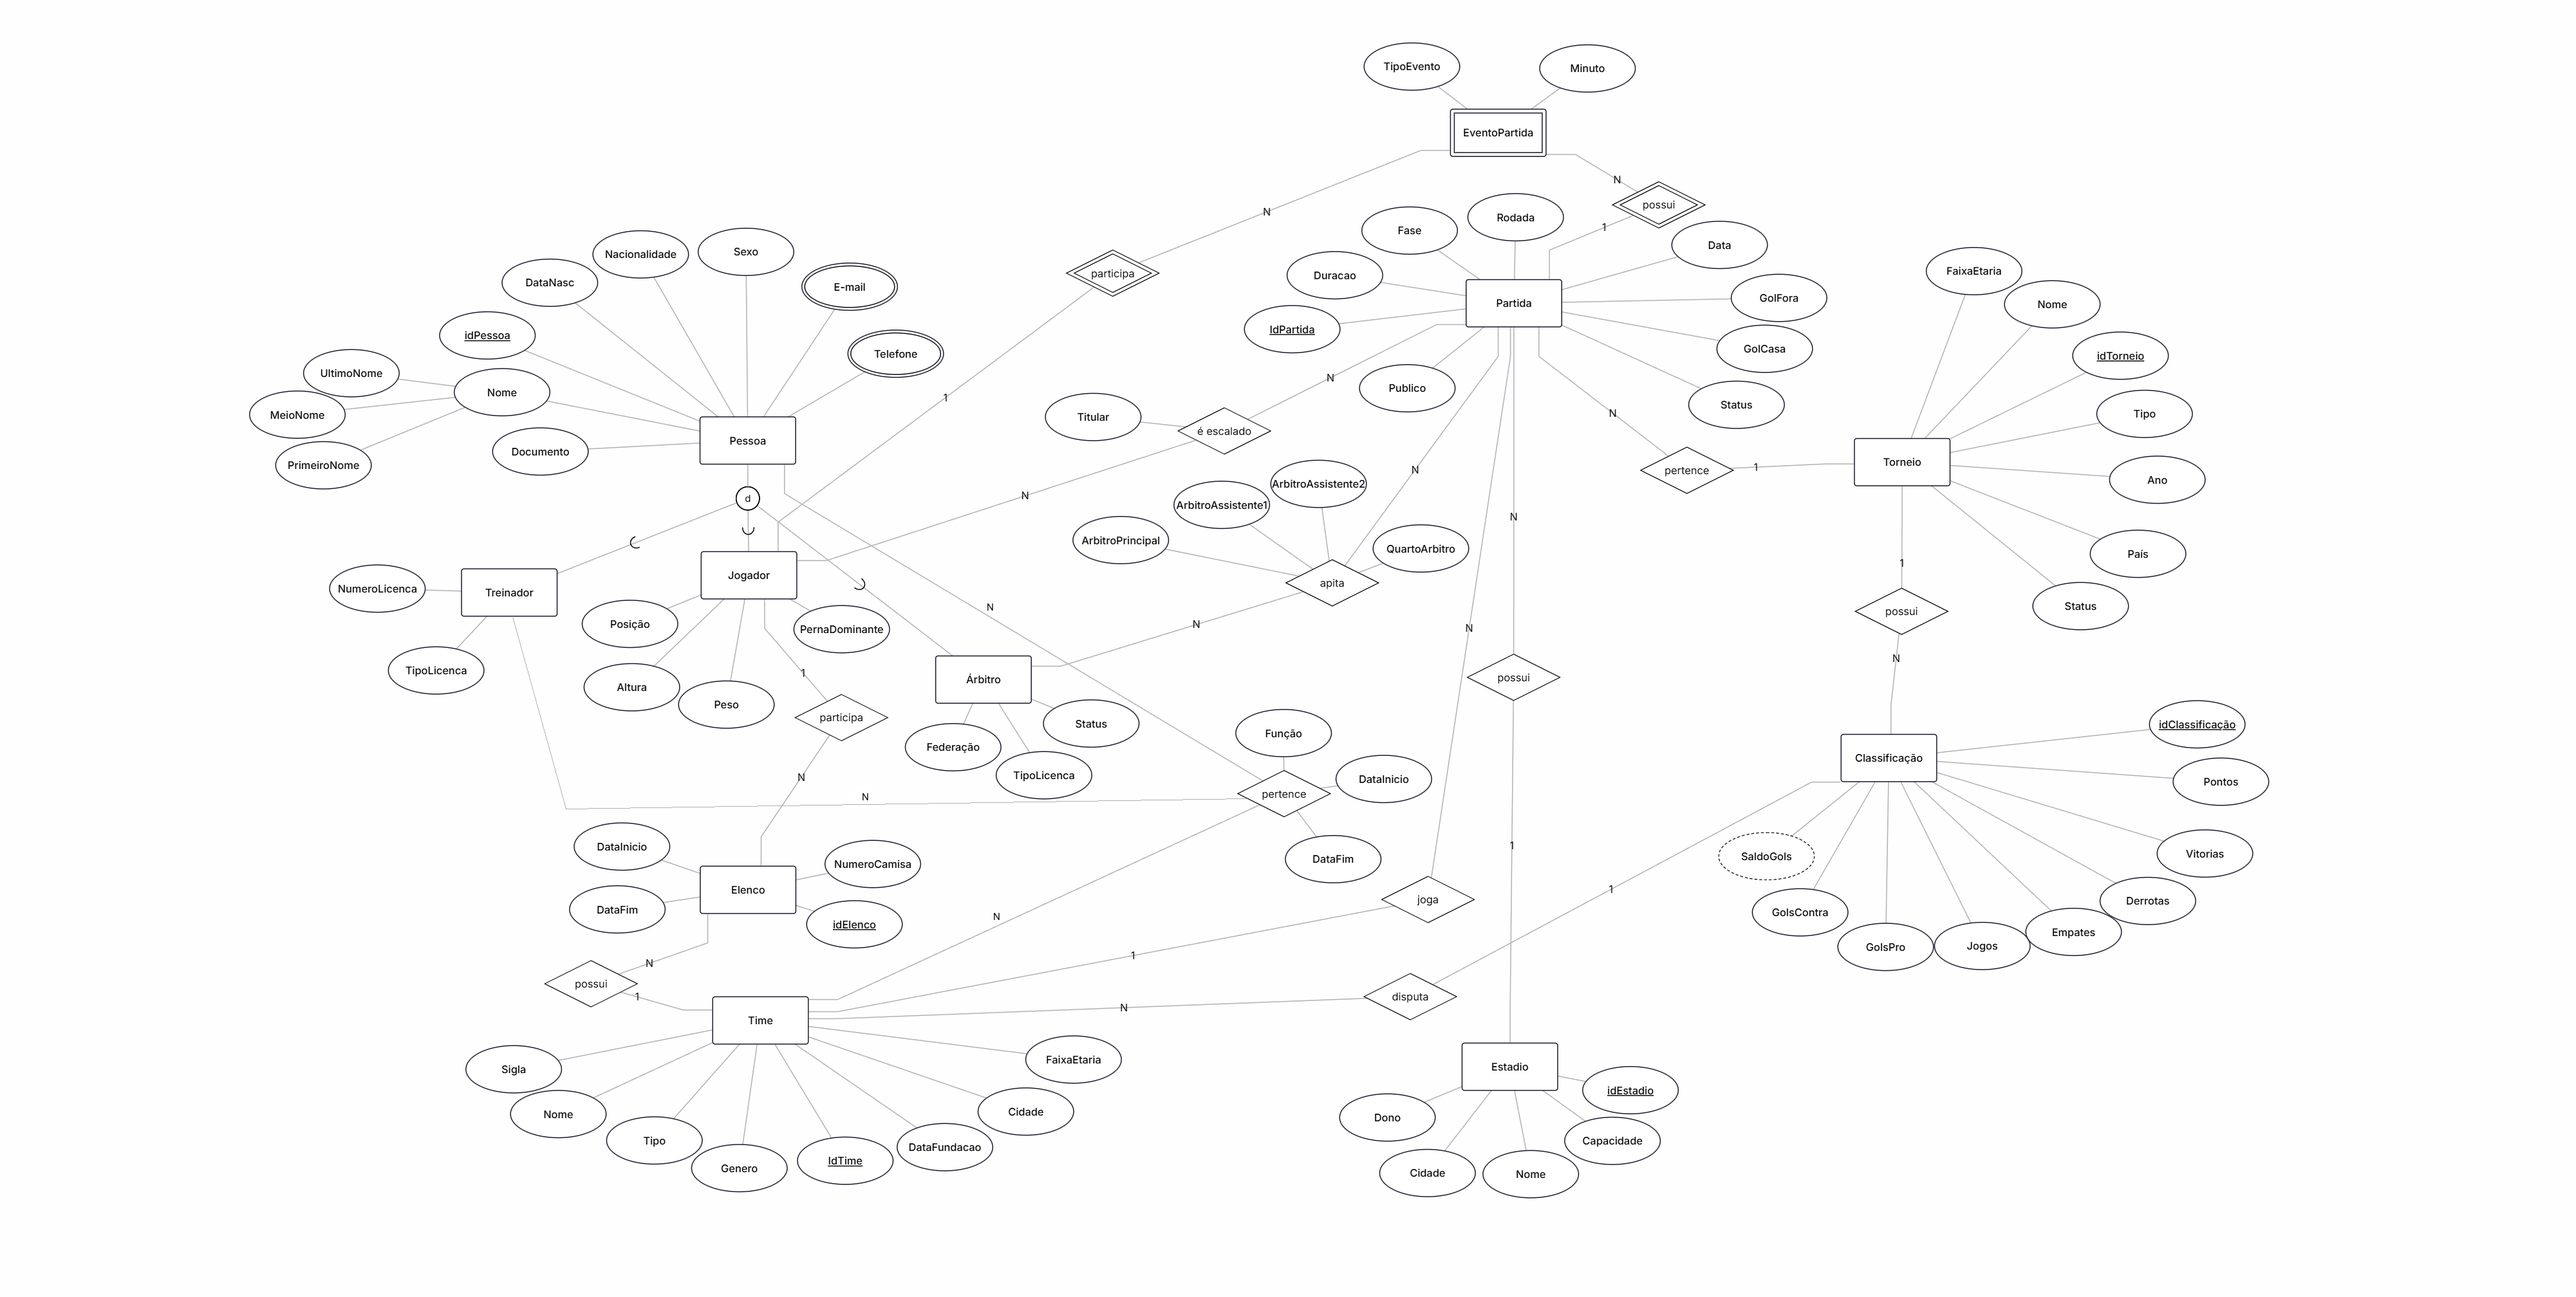
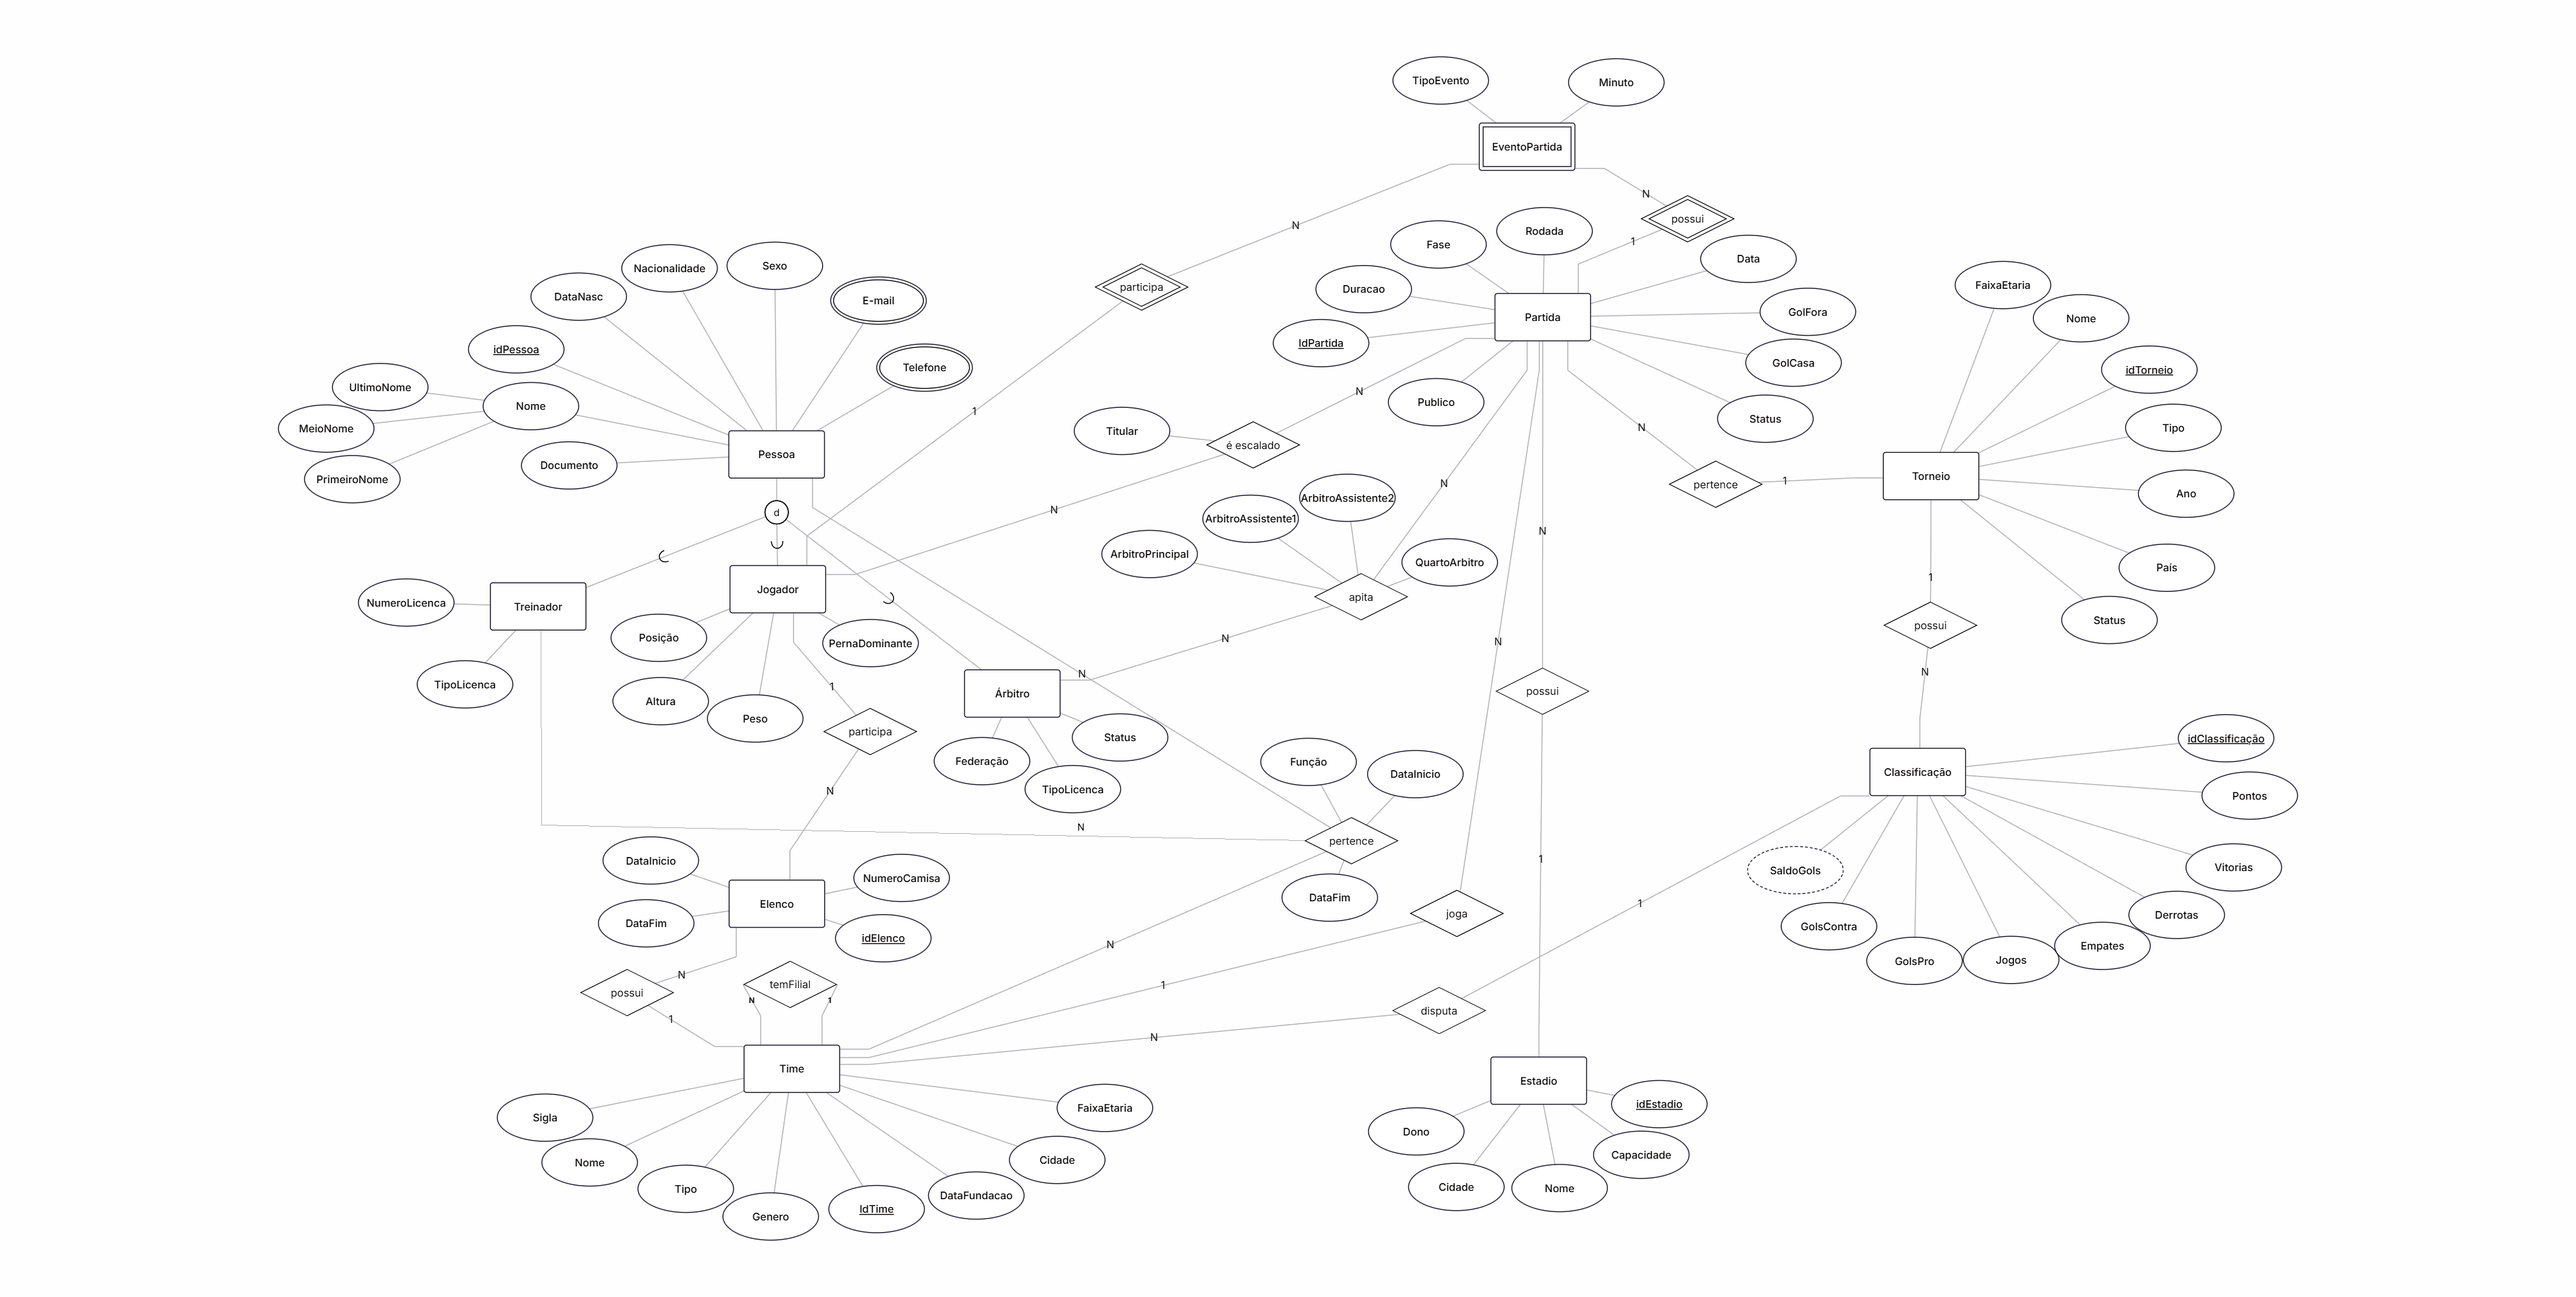
Atualizando DER, ajustes SQL e removendo arquivos obsoletos

diff --git a/scripts/README.md b/scripts/README.md
@@ -26,7 +26,7 @@ Consultas úteis e relatórios do sistema.
 Funções personalizadas do PostgreSQL.
 - `fn_gols_time_torneio()`: Gols de um time em torneio
 - `fn_partidas_vencidas_time_torneio()`: Vitórias por torneio
-- `fn_top_scorers_club()`: Top 10 artilheiros do clube
+- `fn_top_goleadores_clube()`: Top 10 artilheiros do clube
 
 ### `SoccerData_sp.sql`
 Stored procedures para operações complexas.
